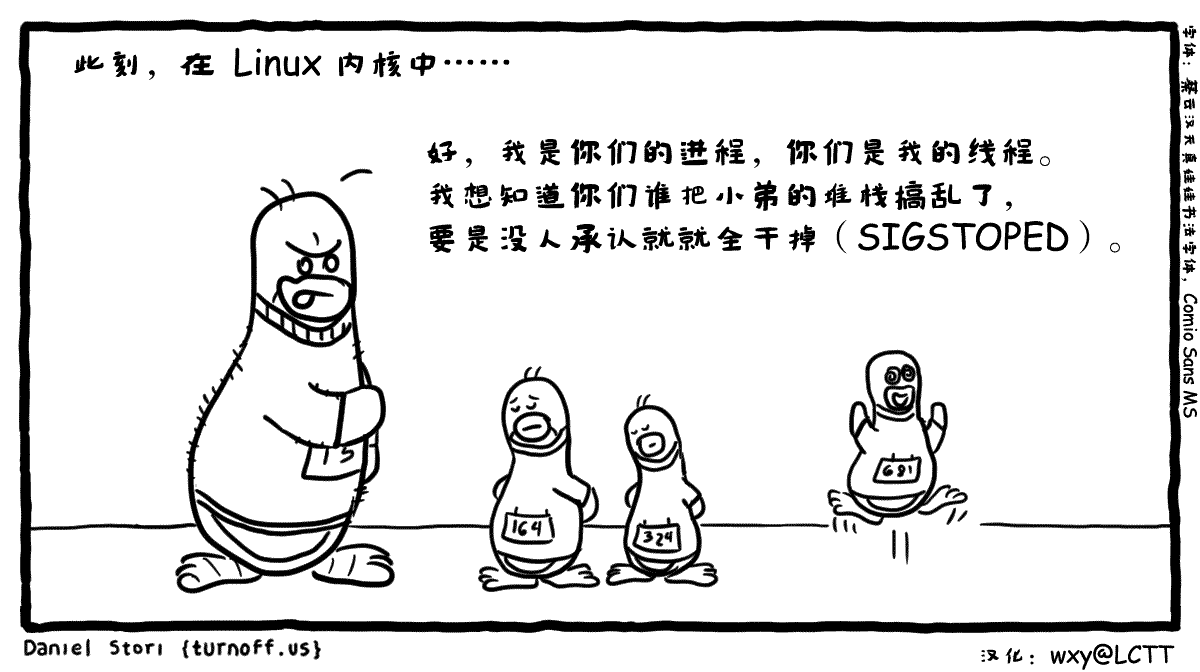
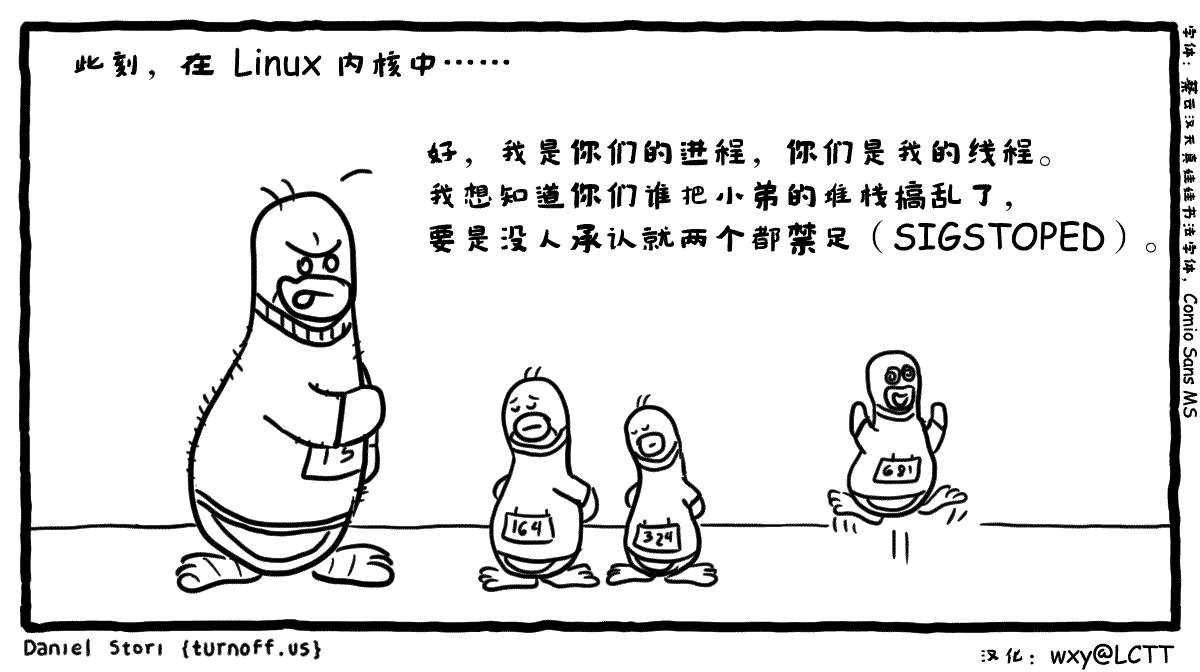
更正

Changed region(s): [[0.555, 0.3125, 0.9558, 0.375]]

diff --git a/turnoff.us/brothers-conflict/[F]brothers-conflict.md b/turnoff.us/brothers-conflict/[F]brothers-conflict.md
@@ -4,11 +4,13 @@
 ![Brothers Conflict (at linux kernel)](https://github.com/LCTT/comic/raw/master/turnoff.us/brothers-conflict/brothers-conflict.png)
 
 - 此刻，在 Linux 内核中……
-- 好，我是你们的进程，你们是我的线程。我想知道你们谁把小弟的堆栈搞乱了，要是没人承认就就全干掉（SIGSTOPED）。
+- 好，我是你们的进程，你们是我的线程。我想知道你们谁把小弟的堆栈搞乱了，要是没人承认就两个都禁足（SIGSTOPED）。
 
 ---
 
 多线程编程中，如何处理共享的资源是个头疼的事情。
+
+那边那个蹦起来的就是堆栈被搞乱的，罪魁祸首显然就在这两个背手挨骂的线程当中。
 
 
 ---
